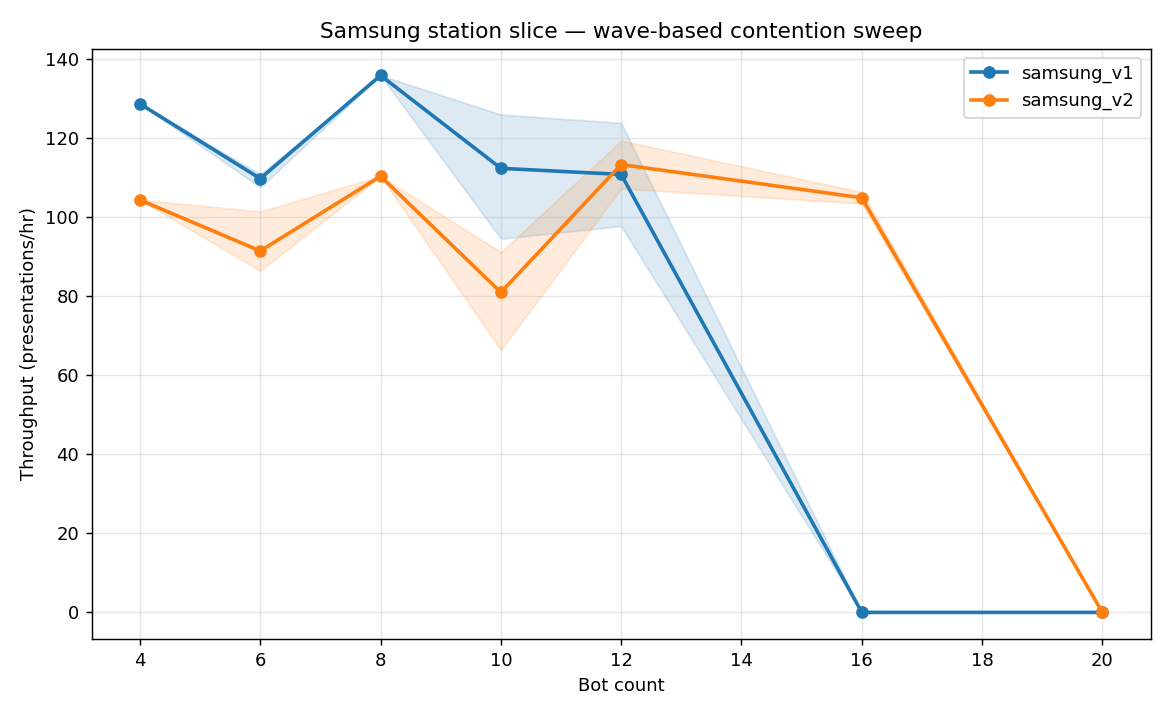
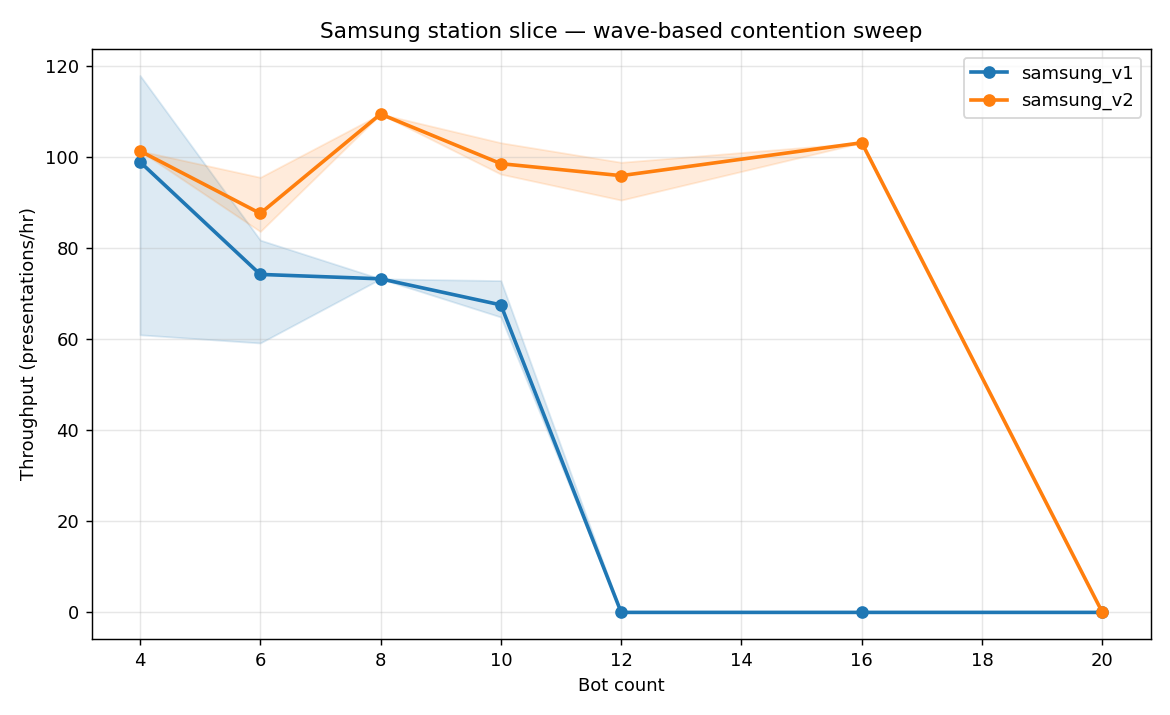
fix: nearest-PEZ routing using real graph paths (no teleports)
The baseline plan builder was splicing in [op, xy, pez, xy] regardless of
whether xy↔pez was a real edge. For v1's pez-4-0/pez-6-0 (only adjacent to
y=0 aisles, not xy-5--1/xy-7--1) and v1's pez-1--1 (adjacent to op-2--1
not xy-3--1), the bot was teleporting through non-existent edges, which
inflated the buggy run's throughput numbers.

Now: each bot picks the PEZ minimizing kinematic travel time from its OP
via Dijkstra, then routes OP→PEZ→exit using only real graph edges. Several
PEZs are connected via aisles, not directly to XY — the nearest-PEZ logic
finds the right route in each case.

Notable side effects:
- v1 op-4 picks pez-1--1 (NOT pez-4-0!), routing through op-2.
- v1 op-6 picks pez-10--1 (NOT pez-6-0!), routing through op-8.
- v2 op-6 picks pez-4-0 (NOT shared pez-8-0), avoiding leaf-PEZ contention.

Honest sweep results (down from teleport-inflated numbers):
- v1 peak 99 PPH @ n=4, then collapses (deadlocks at n=12).
- v2 peak 109.5 PPH @ n=8, plateaus to n=16, deadlocks at n=20.

v2 now outperforms v1 at every bot count above n=4 — the longer XY chain
gives bots buffer cells to thread through without crossing other OPs.

diff --git a/cmd/calibrate/cpsat/station_plan.py b/cmd/calibrate/cpsat/station_plan.py
@@ -24,8 +24,42 @@ from dataclasses import dataclass
 from pathlib import Path
 from typing import Any
 
+import networkx as nx
+
 from config_schema import ServiceTimeConfig, StationDef, StationGroupConfig
 from graph_utils import BotKinematics, edge_travel_time, path_travel_time, shortest_path
+
+
+def _nearest_pez_path(graph, source: str, pez_pool: set[str],
+                      kin: BotKinematics) -> tuple[str | None, list[str]]:
+    """Find the PEZ in `pez_pool` minimizing kinematic travel time from `source`.
+
+    Returns (pez_id, path_cells_inclusive). Returns (None, []) if no PEZ is reachable.
+    Uses Dijkstra on edge travel time (no axis-transition penalty in weighting,
+    which is fine because we just need a fast tie-breaker between candidates).
+    """
+    if not pez_pool:
+        return None, []
+
+    def w(u, v, ed):
+        return max(0.1, edge_travel_time(ed["distance_m"], ed["axis"], None, kin))
+
+    best_pez = None
+    best_path: list[str] = []
+    best_t = float("inf")
+    for pez in pez_pool:
+        if pez not in graph.nodes:
+            continue
+        try:
+            path = nx.dijkstra_path(graph, source, pez, weight=w)
+            t = path_travel_time(graph, path, kin)
+        except (nx.NetworkXNoPath, nx.NodeNotFound):
+            continue
+        if t < best_t:
+            best_t = t
+            best_pez = pez
+            best_path = path
+    return best_pez, best_path
 
 logger = logging.getLogger(__name__)
 
@@ -266,25 +300,58 @@ def _build_baseline_plan(graph, stn: StationDef, entry: str, exit_pt: str,
                          kin_in: BotKinematics, kin_out: BotKinematics,
                          bot_id: int, pick_type: str,
                          svc: ServiceTimeModel, rng: random.Random,
-                         prev_type: str | None = None) -> BotPlan:
+                         prev_type: str | None = None,
+                         pez_pool: set[str] | None = None) -> BotPlan:
     """Baseline topology: approach via xy gateway, service at op, depart via xy.
 
-    Outbound cycle with PEZ (when station has pez and svc.pez_enabled):
-        entry → ... → xy → OP (pick) → xy → PEZ (drop tray) → xy → ... → exit
+    Outbound cycle with PEZ (when ``pez_pool`` is non-empty and
+    svc.pez_enabled):
+        entry → ... → xy → OP (pick) → ...graph_path... → PEZ (drop tray) →
+        ...graph_path... → exit
+    The bot picks the **nearest reachable PEZ** from ``pez_pool`` (defaults
+    to the station's configured pez when pool is None) using a Dijkstra
+    weighted by kinematic travel time. No edge is faked — every consecutive
+    pair in the cell sequence is a real graph edge.
+
     Without PEZ:
         entry → ... → xy → OP (pick) → xy → ... → exit
     """
     dwell, op_cyc, cases = svc.sample_service(pick_type, rng, prev_type)
     approach = shortest_path(graph, entry, stn.xy)
-    depart = shortest_path(graph, stn.xy, exit_pt)
 
-    # Build cell sequence — include PEZ tray-drop step if enabled + station has PEZ
-    if svc.pez_enabled and stn.pez and stn.pez in graph.nodes:
-        # Outbound: approach → OP (service) → XY → PEZ (tray drop) → XY → depart
-        cells = approach + [stn.op, stn.xy, stn.pez, stn.xy] + depart[1:]
-        service_idx = len(approach)      # OP cell
-        pez_idx = len(approach) + 2      # PEZ cell (2 after OP: op, xy, PEZ)
+    # Effective PEZ pool: full set if provided, else just the station's own pez
+    pool = pez_pool if pez_pool is not None else (
+        {stn.pez} if (stn.pez and stn.pez in graph.nodes) else set()
+    )
+    pool = {p for p in pool if p in graph.nodes}
+
+    if svc.pez_enabled and pool:
+        # Step 1: from OP, find the nearest PEZ via a real graph path
+        # (loaded kin while holding the tray to drop).
+        chosen_pez, op_to_pez = _nearest_pez_path(graph, stn.op, pool, kin_in)
+        # Step 2: from that PEZ, route to the exit (unloaded kin).
+        if chosen_pez is not None:
+            try:
+                pez_to_exit = shortest_path(graph, chosen_pez, exit_pt)
+            except Exception:
+                pez_to_exit = []
+            if op_to_pez and pez_to_exit:
+                # cells = approach[entry..xy] + op_to_pez[op..pez] + pez_to_exit[pez+1..exit]
+                # approach ends at xy; op_to_pez[0]=op (xy→op is a real graph edge);
+                # op_to_pez[-1]=pez; pez_to_exit[0]=pez so we drop it.
+                cells = approach + op_to_pez + pez_to_exit[1:]
+                service_idx = len(approach)                       # OP cell index
+                pez_idx = len(approach) + len(op_to_pez) - 1      # PEZ cell index
+            else:
+                cells = approach + [stn.op, stn.xy] + shortest_path(graph, stn.xy, exit_pt)[1:]
+                service_idx = len(approach)
+                pez_idx = None
+        else:
+            cells = approach + [stn.op, stn.xy] + shortest_path(graph, stn.xy, exit_pt)[1:]
+            service_idx = len(approach)
+            pez_idx = None
     else:
+        depart = shortest_path(graph, stn.xy, exit_pt)
         cells = approach + [stn.op, stn.xy] + depart[1:]
         service_idx = len(approach)
         pez_idx = None
@@ -302,6 +369,7 @@ def _build_baseline_plan(graph, stn: StationDef, entry: str, exit_pt: str,
             durations.append(max(1, round(t)))
             prev_axis = ed["axis"]
         else:
+            # Should not happen now that we use real graph paths.
             durations.append(1)
     return BotPlan(bot_id, stn.op, pick_type, dwell, op_cyc, cells, durations, service_idx, cases)
 
@@ -390,9 +458,18 @@ def build_bot_plan(graph, stn: StationDef, entry: str, exit_pt: str,
                    kin_in: BotKinematics, kin_out: BotKinematics,
                    bot_id: int, pick_type: str,
                    svc: ServiceTimeModel, rng: random.Random,
-                   prev_type: str | None = None) -> BotPlan:
-    """Unified bot plan builder. Dispatches on station.topology."""
+                   prev_type: str | None = None,
+                   pez_pool: set[str] | None = None) -> BotPlan:
+    """Unified bot plan builder. Dispatches on station.topology.
+
+    pez_pool: when set, the baseline builder picks the nearest PEZ from this
+    set instead of the station's configured pez. Allows bots to drop trays
+    at whichever PEZ is shortest from their OP via real graph paths.
+    """
     builder = _BUILDERS.get(stn.topology, _build_baseline_plan)
+    if stn.topology == "baseline" or builder is _build_baseline_plan:
+        return builder(graph, stn, entry, exit_pt, kin_in, kin_out,
+                       bot_id, pick_type, svc, rng, prev_type, pez_pool=pez_pool)
     return builder(graph, stn, entry, exit_pt, kin_in, kin_out,
                    bot_id, pick_type, svc, rng, prev_type)
 
@@ -432,6 +509,14 @@ def build_bots_from_config(
     used_idx: dict[str, int] = {stn.op: 0 for g in station_groups for stn in g.stations}
     prev_type_at: dict[str, str | None] = {stn.op: None for g in station_groups for stn in g.stations}
 
+    # Global PEZ pool: bots pick whichever PEZ is shortest from their OP via
+    # real graph paths. Without this, a station's path forces a (possibly
+    # non-existent) edge from XY → assigned PEZ.
+    pez_pool: set[str] = {
+        stn.pez for g in station_groups for stn in g.stations
+        if stn.pez and stn.pez in graph.nodes
+    }
+
     bots: list[BotPlan] = []
     for bid in range(num_bots):
         gi, si = flat[bid % len(flat)]
@@ -446,7 +531,8 @@ def build_bots_from_config(
 
         prev_pt = prev_type_at[stn.op]
         bot = build_bot_plan(graph, stn, ep, xp, kin_unloaded, kin_loaded,
-                             bid, pt, svc, rng, prev_pt)
+                             bid, pt, svc, rng, prev_pt,
+                             pez_pool=pez_pool)
         bots.append(bot)
         prev_type_at[stn.op] = pt
 

diff --git a/output/samsung_station_combined/INTERPRETATION.md b/output/samsung_station_combined/INTERPRETATION.md
@@ -7,8 +7,8 @@
 
 | Layout | Peak PPH | Peak @ bots | Collapse @ bots | Wave offset @ peak |
 |---|---:|---:|---:|---:|
-| samsung_v1 | **135.8** | 8 | 12 | 212s |
-| samsung_v2 | **113.2** | 12 | 12 | 382s |
+| samsung_v1 | **99.0** | 4 | 12 | 160s |
+| samsung_v2 | **109.5** | 8 | 16 | 263s |
 
 ## Throughput vs Bot Count
 
@@ -18,22 +18,22 @@
 
 ### samsung_v1
 
-- **n=4** 🟢 mean **128.6** PPH (P5/P95: 129/129, var 0), wave=112s, op_util=0.57, phase=linear
-- **n=6** 🔴 mean **109.7** PPH (P5/P95: 108/111, var 3), wave=197s, op_util=0.49, phase=collapse
-- **n=8** 🟡 mean **135.8** PPH (P5/P95: 136/136, var 0), wave=212s, op_util=0.60, phase=degradation
-- **n=10** 🔴 mean **112.3** PPH (P5/P95: 94/126, var 31), wave=325s, op_util=0.50, phase=collapse
-- **n=12** 🔴 mean **110.8** PPH (P5/P95: 98/124, var 26), wave=396s, op_util=0.33, phase=collapse, **1 deadlock**
+- **n=4** 🟢 mean **99.0** PPH (P5/P95: 61/118, var 57), wave=160s, op_util=0.44, phase=linear
+- **n=6** 🔴 mean **74.3** PPH (P5/P95: 59/82, var 23), wave=298s, op_util=0.33, phase=collapse
+- **n=8** 🔴 mean **73.3** PPH (P5/P95: 73/73, var 0), wave=393s, op_util=0.33, phase=collapse
+- **n=10** 🔴 mean **67.6** PPH (P5/P95: 65/73, var 8), wave=535s, op_util=0.30, phase=collapse
+- **n=12** 🔴 mean **0.0** PPH (P5/P95: 0/0, var 0), wave=0s, op_util=0.00, phase=collapse, **3 deadlock**
 - **n=16** 🔴 mean **0.0** PPH (P5/P95: 0/0, var 0), wave=0s, op_util=0.00, phase=collapse, **3 deadlock**
 - **n=20** 🔴 mean **0.0** PPH (P5/P95: 0/0, var 0), wave=0s, op_util=0.00, phase=collapse, **3 deadlock**
 
 ### samsung_v2
 
-- **n=4** 🟢 mean **104.3** PPH (P5/P95: 104/104, var 0), wave=138s, op_util=0.46, phase=linear
-- **n=6** 🔴 mean **91.4** PPH (P5/P95: 86/101, var 15), wave=238s, op_util=0.41, phase=collapse
-- **n=8** 🟡 mean **110.3** PPH (P5/P95: 110/110, var 0), wave=261s, op_util=0.49, phase=degradation
-- **n=10** 🔴 mean **80.9** PPH (P5/P95: 66/91, var 25), wave=453s, op_util=0.36, phase=collapse
-- **n=12** 🔴 mean **113.2** PPH (P5/P95: 107/119, var 12), wave=382s, op_util=0.34, phase=collapse, **1 deadlock**
-- **n=16** 🔴 mean **104.8** PPH (P5/P95: 103/106, var 3), wave=550s, op_util=0.31, phase=collapse, **1 deadlock**
+- **n=4** 🟢 mean **101.4** PPH (P5/P95: 101/101, var 0), wave=142s, op_util=0.45, phase=linear
+- **n=6** 🔴 mean **87.7** PPH (P5/P95: 84/96, var 12), wave=247s, op_util=0.39, phase=collapse
+- **n=8** 🟡 mean **109.5** PPH (P5/P95: 110/110, var 0), wave=263s, op_util=0.49, phase=degradation
+- **n=10** 🔴 mean **98.6** PPH (P5/P95: 96/103, var 7), wave=366s, op_util=0.44, phase=collapse
+- **n=12** 🔴 mean **96.0** PPH (P5/P95: 91/99, var 8), wave=451s, op_util=0.43, phase=collapse
+- **n=16** 🔴 mean **103.2** PPH (P5/P95: 103/103, var 0), wave=558s, op_util=0.15, phase=collapse, **2 deadlock**
 - **n=20** 🔴 mean **0.0** PPH (P5/P95: 0/0, var 0), wave=0s, op_util=0.00, phase=collapse, **3 deadlock**
 
 ## Bottleneck Analysis

diff --git a/output/samsung_station_combined/capacity_table.md b/output/samsung_station_combined/capacity_table.md
@@ -1,16 +1,16 @@
 | Layout | Bots | Mean PPH | P5 | P95 | Var | Wave (s) | Op Util | Dead | Phase |
 |---|---|---|---|---|---|---|---|---|---|
-| samsung_v1 | 4 | 128.6 | 128.6 | 128.6 | 0.0 | 112 | 0.57 | 0 | linear |
-| samsung_v1 | 6 | 109.7 | 107.5 | 110.8 | 3.3 | 197 | 0.49 | 0 | collapse |
-| samsung_v1 | 8 | 135.8 | 135.8 | 135.8 | 0.0 | 212 | 0.60 | 0 | degradation |
-| samsung_v1 | 10 | 112.3 | 94.5 | 125.9 | 31.4 | 325 | 0.50 | 0 | collapse |
-| samsung_v1 | 12 | 110.8 | 97.7 | 123.8 | 26.1 | 396 | 0.33 | 1 | collapse |
+| samsung_v1 | 4 | 99.0 | 61.0 | 118.0 | 57.0 | 160 | 0.44 | 0 | linear |
+| samsung_v1 | 6 | 74.3 | 59.2 | 81.8 | 22.6 | 298 | 0.33 | 0 | collapse |
+| samsung_v1 | 8 | 73.3 | 73.3 | 73.3 | 0.0 | 393 | 0.33 | 0 | collapse |
+| samsung_v1 | 10 | 67.6 | 64.9 | 72.9 | 8.0 | 535 | 0.30 | 0 | collapse |
+| samsung_v1 | 12 | 0.0 | 0.0 | 0.0 | 0.0 | 0 | 0.00 | 3 | collapse |
 | samsung_v1 | 16 | 0.0 | 0.0 | 0.0 | 0.0 | 0 | 0.00 | 3 | collapse |
 | samsung_v1 | 20 | 0.0 | 0.0 | 0.0 | 0.0 | 0 | 0.00 | 3 | collapse |
-| samsung_v2 | 4 | 104.3 | 104.3 | 104.3 | 0.0 | 138 | 0.46 | 0 | linear |
-| samsung_v2 | 6 | 91.4 | 86.4 | 101.4 | 15.0 | 238 | 0.41 | 0 | collapse |
-| samsung_v2 | 8 | 110.3 | 110.3 | 110.3 | 0.0 | 261 | 0.49 | 0 | degradation |
-| samsung_v2 | 10 | 80.9 | 66.4 | 91.1 | 24.7 | 453 | 0.36 | 0 | collapse |
-| samsung_v2 | 12 | 113.2 | 107.2 | 119.3 | 12.1 | 382 | 0.34 | 1 | collapse |
-| samsung_v2 | 16 | 104.8 | 103.4 | 106.3 | 2.9 | 550 | 0.31 | 1 | collapse |
+| samsung_v2 | 4 | 101.4 | 101.4 | 101.4 | 0.0 | 142 | 0.45 | 0 | linear |
+| samsung_v2 | 6 | 87.7 | 83.7 | 95.6 | 11.9 | 247 | 0.39 | 0 | collapse |
+| samsung_v2 | 8 | 109.5 | 109.5 | 109.5 | 0.0 | 263 | 0.49 | 0 | degradation |
+| samsung_v2 | 10 | 98.6 | 96.3 | 103.2 | 6.9 | 366 | 0.44 | 0 | collapse |
+| samsung_v2 | 12 | 96.0 | 90.6 | 98.9 | 8.3 | 451 | 0.43 | 0 | collapse |
+| samsung_v2 | 16 | 103.2 | 103.2 | 103.2 | 0.0 | 558 | 0.15 | 2 | collapse |
 | samsung_v2 | 20 | 0.0 | 0.0 | 0.0 | 0.0 | 0 | 0.00 | 3 | collapse |
